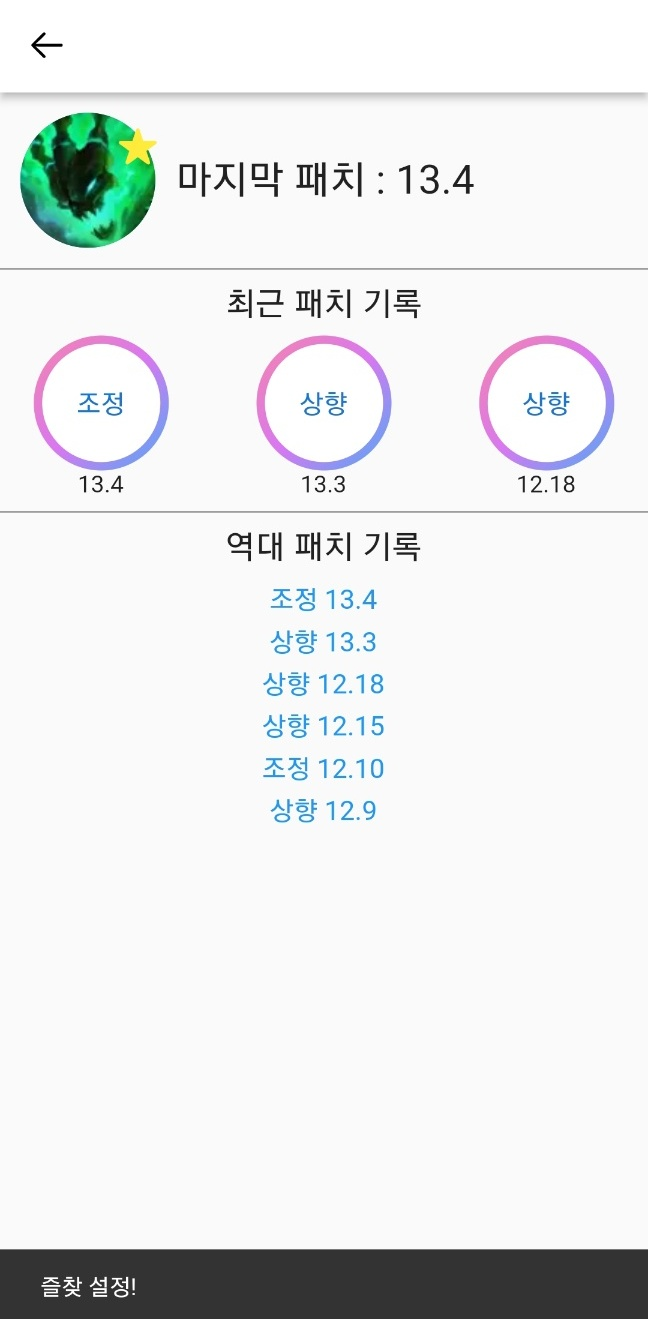
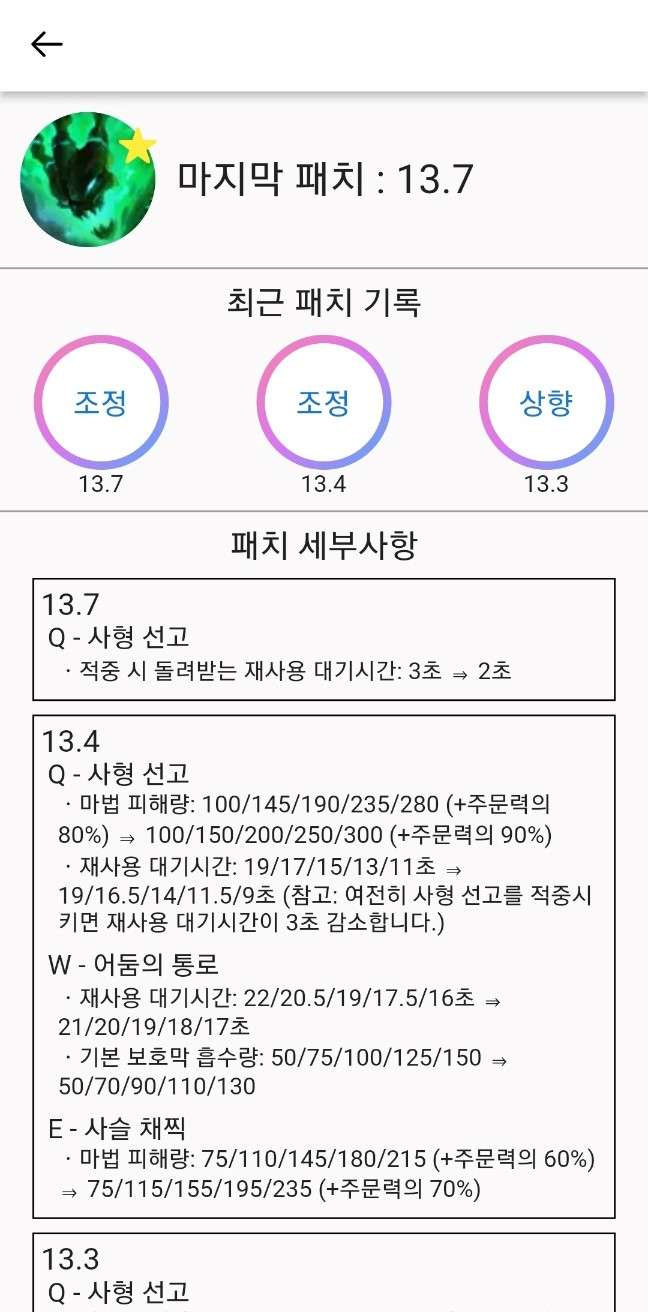
오탈 수정 / 메인페이지 챔피언명 추가 / 최근패치 원형 위젯 색깔 추가 / 패치 날짜 추가

diff --git a/mychampion/lib/OneChampionPage.dart b/mychampion/lib/OneChampionPage.dart
@@ -20,6 +20,11 @@ class _OneChampPageState extends State<OneChampPage> {
   //////////////////////////////////////함수 영역
   Widget MakeBorNorMCircle(
       BuildContext context, String BorNorM, String patchVer, String link) {
+    Color FontColor= Colors.black;
+    if(BorNorM=="상향") FontColor = Colors.blue;
+    else if(BorNorM =="하향") FontColor = Colors.red;
+    else if(BorNorM =="조정") FontColor = Colors.orange;
+
     return GestureDetector(
       onTap: () {
         launch(link, forceWebView: true);
@@ -34,10 +39,7 @@ class _OneChampPageState extends State<OneChampPage> {
                 gradient: const LinearGradient(
                   begin: Alignment.bottomRight,
                   end: Alignment.topLeft,
-                  colors: [
-                    Color(0xff4dabf7),
-                    Color(0xffda77f2),
-                    Color(0xfff783ac),
+                  colors: [Color(0xff4dabf7), Color(0xffda77f2), Color(0xfff783ac),
                   ],
                 ),
                 borderRadius: BorderRadius.circular(500),
@@ -45,7 +47,8 @@ class _OneChampPageState extends State<OneChampPage> {
               child: CircleAvatar(
                 radius: 35,
                 backgroundColor: Colors.white,
-                child: Container(child: Text(BorNorM, style: TextStyle(fontSize: 18))),
+                child: Container(child: 
+                Text(BorNorM, style: TextStyle(fontSize: 18, fontWeight: FontWeight.bold, color: FontColor))),
               ),
             ),
             Text(patchVer)
@@ -57,6 +60,38 @@ class _OneChampPageState extends State<OneChampPage> {
   
   
   Widget MakePatchContentContainer(int champNo, int index) {
+    String UpdateDay="";
+    if(patchVerDataArr[champNo][index] == "13.7") UpdateDay=PatchNoteLinkPlusDay.link[0];
+    else if(patchVerDataArr[champNo][index] == "13.6") UpdateDay=PatchNoteLinkDay.link[0];
+    else if(patchVerDataArr[champNo][index] == "13.5") UpdateDay=PatchNoteLinkDay.link[1];
+    else if(patchVerDataArr[champNo][index] == "13.4") UpdateDay=PatchNoteLinkDay.link[2];
+    else if(patchVerDataArr[champNo][index] == "13.3") UpdateDay=PatchNoteLinkDay.link[3];
+    else if(patchVerDataArr[champNo][index] == "13.1B") UpdateDay=PatchNoteLinkDay.link[4];
+    else if(patchVerDataArr[champNo][index] == "13.1") UpdateDay=PatchNoteLinkDay.link[5];
+    else if(patchVerDataArr[champNo][index] == "12.23") UpdateDay=PatchNoteLinkDay.link[6];
+    else if(patchVerDataArr[champNo][index] == "12.22") UpdateDay=PatchNoteLinkDay.link[7];
+    else if(patchVerDataArr[champNo][index] == "12.21") UpdateDay=PatchNoteLinkDay.link[8];
+    else if(patchVerDataArr[champNo][index] == "12.20") UpdateDay=PatchNoteLinkDay.link[9];
+    else if(patchVerDataArr[champNo][index] == "12.19") UpdateDay=PatchNoteLinkDay.link[10];
+    else if(patchVerDataArr[champNo][index] == "12.18") UpdateDay=PatchNoteLinkDay.link[11];
+    else if(patchVerDataArr[champNo][index] == "12.17") UpdateDay=PatchNoteLinkDay.link[12];
+    else if(patchVerDataArr[champNo][index] == "12.16") UpdateDay=PatchNoteLinkDay.link[13];
+    else if(patchVerDataArr[champNo][index] == "12.15") UpdateDay=PatchNoteLinkDay.link[14];
+    else if(patchVerDataArr[champNo][index] == "12.14") UpdateDay=PatchNoteLinkDay.link[15];
+    else if(patchVerDataArr[champNo][index] == "12.13") UpdateDay=PatchNoteLinkDay.link[16];
+    else if(patchVerDataArr[champNo][index] == "12.12") UpdateDay=PatchNoteLinkDay.link[17];
+    else if(patchVerDataArr[champNo][index] == "12.11") UpdateDay=PatchNoteLinkDay.link[18];
+    else if(patchVerDataArr[champNo][index] == "12.10") UpdateDay=PatchNoteLinkDay.link[19];
+    else if(patchVerDataArr[champNo][index] == "12.9") UpdateDay=PatchNoteLinkDay.link[20];
+    else if(patchVerDataArr[champNo][index] == "12.8") UpdateDay=PatchNoteLinkDay.link[21];
+    else if(patchVerDataArr[champNo][index] == "12.7") UpdateDay=PatchNoteLinkDay.link[22];
+    else if(patchVerDataArr[champNo][index] == "12.6") UpdateDay=PatchNoteLinkDay.link[23];
+    else if(patchVerDataArr[champNo][index] == "12.5") UpdateDay=PatchNoteLinkDay.link[24];
+    else if(patchVerDataArr[champNo][index] == "12.4") UpdateDay=PatchNoteLinkDay.link[25];
+    else if(patchVerDataArr[champNo][index] == "12.3") UpdateDay=PatchNoteLinkDay.link[26];
+    else if(patchVerDataArr[champNo][index] == "12.2") UpdateDay=PatchNoteLinkDay.link[27];
+    else if(patchVerDataArr[champNo][index] == "12.1") UpdateDay=PatchNoteLinkDay.link[28];
+
     return Padding(
       padding: const EdgeInsets.only(bottom: 8.0),
       child: Container(
@@ -69,7 +104,12 @@ class _OneChampPageState extends State<OneChampPage> {
           children: [
             Padding(
               padding: const EdgeInsets.only(top: 4, left: 4),
-              child: Text(patchVerDataArr[champNo][index], style: TextStyle(fontSize: 18)),
+              child: Row(
+                children: [
+                  Text(patchVerDataArr[champNo][index], style: TextStyle(fontSize: 18)),
+                  Text("  " + UpdateDay)
+                ],
+              ),
             ),
             for (int i = 0; i < Detail_TitleArr[champNo][index].length; i++)
               MakePatchContentContainer_Detail(champNo, index, i),
@@ -81,14 +121,14 @@ class _OneChampPageState extends State<OneChampPage> {
 
   Widget MakePatchContentContainer_Detail(int champNo, int index, int index_Detail) {
     return Padding(
-      padding: const EdgeInsets.only(bottom: 8.0, left: 8, right: 8),
+      padding: const EdgeInsets.only(bottom: 8, left: 8, right: 8),
       child: Column(
         crossAxisAlignment: CrossAxisAlignment.start,
         children: [
           Text(Detail_TitleArr[champNo][index][index_Detail], style: TextStyle(fontSize: 16)),
           for (int i = 0; i < Detail_ContentArr[champNo][index][index_Detail].length; i++) 
             Padding(
-              padding: const EdgeInsets.only(left: 6),
+              padding: const EdgeInsets.only(left: 6, bottom: 4),
               child: Text("ㆍ" + Detail_ContentArr[champNo][index][index_Detail][i], style: TextStyle(fontSize: 14)),
             ),
         ],
@@ -202,7 +242,7 @@ class _OneChampPageState extends State<OneChampPage> {
                           children: [
                             Padding(
                               padding:const EdgeInsets.symmetric(vertical: 8.0),
-                              child: Text("최근 패치 기록", style: TextStyle(fontSize: 20)),
+                              child: Text("최근 패치 기록(링크)", style: TextStyle(fontSize: 20)),
                             ),
                             Padding(
                               padding: const EdgeInsets.only(bottom: 8.0),
@@ -246,7 +286,7 @@ class _OneChampPageState extends State<OneChampPage> {
                         children: [
                           Padding(
                             padding: const EdgeInsets.symmetric(vertical: 8.0),
-                            child: Text("역대 패치 기록", style: TextStyle(fontSize: 20),
+                            child: Text("역대 패치 기록(링크)", style: TextStyle(fontSize: 20),
                             ),
                           ),
                           for (int i = 0; i < patchVerDataArr[widget.ChampIndex].length; i++)

diff --git a/mychampion/lib/ChampionData/Data.dart b/mychampion/lib/ChampionData/Data.dart
@@ -19,7 +19,7 @@ List<String> ChampionName =
 "세라핀","세주아니","세트","소나","소라카","쉔",
 "쉬바나","스웨인","스카너","시비르","신짜오","신드라",
 "신지드","쓰레쉬","아리","아무무","아우렐리온솔","아이번",
-"아지르","아칼리","아크샨","아트룩스","아펠리오스","알리스타",
+"아지르","아칼리","아크샨","아트록스","아펠리오스","알리스타",
 "애니","애니비아","애쉬","야스오","에코","엘리스",
 "오공","오른","오리아나","울라프","요네","요릭",
 "우디르","우르곳","워윅","유미","이렐리아","이블린",
@@ -133,10 +133,52 @@ class PatchNoteLink{
   "https://www.leagueoflegends.com/ko-kr/news/game-updates/patch-12-2-notes/",
   "https://www.leagueoflegends.com/ko-kr/news/game-updates/patch-12-1-notes/"];
 }
+
+class PatchNoteLinkDay{
+  static List<String> link = [
+    "2023-3-22",
+    "2023-3-8",
+    "2023-2-23",
+    "2023-2-9",
+    "2023-1-27",
+    "2023-1-11",
+    "2022-12-7", //23
+    "2022-11-16",
+    "2022-11-2",
+    "2022-10-19",
+    "2022-10-5",
+    "2022-9-21",
+    "2022-9-8",
+    "2022-8-24",
+    "2022-8-10",
+    "2022-7-27",
+    "2022-7-13",
+    "2022-6-23",
+    "2022-6-8",
+    "2022-5-25", //10
+    "2022-5-11",
+    "2022-4-27",
+    "2022-4-13",
+    "2022-3-30",
+    "2022-3-2",
+    "2022-2-16",
+    "2022-2-2",
+    "2022-1-20",
+    "2022-1-5", //1
+  ];
+}
+
+
 class PatchNoteLinkPlus{
   //13.7 이후의 버전
   static List<String> link = [
     "https://www.leagueoflegends.com/ko-kr/news/game-updates/patch-13-7-notes/",];
+}
+
+class PatchNoteLinkPlusDay{
+  //13.7 이후의 버전
+  static List<String> link = [
+    "2023-4-5",];
 }
 
 
@@ -981,7 +1023,7 @@ class PatchNoteVer{
   static List<String> Ver = [];
 }
 
-//아트룩스
+//아트록스
 class PatchContent_Aatrox{
   static List<String> BorNorM=["상향", "하향","하향","조정", "하향","상향"];
   static List<String> patchVer=["13.5","13.1","12.20","12.14","12.10","12.4"];
@@ -2357,7 +2399,7 @@ class PatchContent_Leona{
 //릴리아
 class PatchContent_Lillia{
   static List<String> BorNorM=["상향","하향","상향","상향", "하향","하향","상향","상향"];
-  static List<String> patchVer=["13.1B","12.23","12.22","12.15","12.11","12.10","12.7","12,3"];
+  static List<String> patchVer=["13.1B","12.23","12.22","12.15","12.11","12.10","12.7","12.3"];
   static List<String> patchNoteLink= [PatchNoteLink.link[4],PatchNoteLink.link[6],PatchNoteLink.link[7],PatchNoteLink.link[14]
   ,PatchNoteLink.link[18], PatchNoteLink.link[19],PatchNoteLink.link[22],PatchNoteLink.link[26]];
   static List<List<String>> Detail_Title =[["기본 지속 효과 - 꿈나무 지팡이","Q - 뾰로롱 강타","E - 데굴데굴 씨앗"],

diff --git a/mychampion/lib/ChampionsPage.dart b/mychampion/lib/ChampionsPage.dart
@@ -48,9 +48,17 @@ class _ChampionsPageState extends State<ChampionsPage> {
       },
       child: Padding(
         padding: const EdgeInsets.symmetric(horizontal: 4.0),
-        child: CircleAvatar(
-          radius: circleSize,
-          backgroundImage: ExactAssetImage(ChampionImgLink[index]),
+        child: Column(
+          children: [
+            CircleAvatar(
+              radius: circleSize,
+              backgroundImage: ExactAssetImage(ChampionImgLink[index]),
+            ),
+            Padding(
+              padding: const EdgeInsets.only(top: 4),
+              child: Text(ChampionName[index],style: TextStyle(fontSize: 8, fontWeight: FontWeight.bold),),
+            )
+          ],
         ),
       ),
     );
